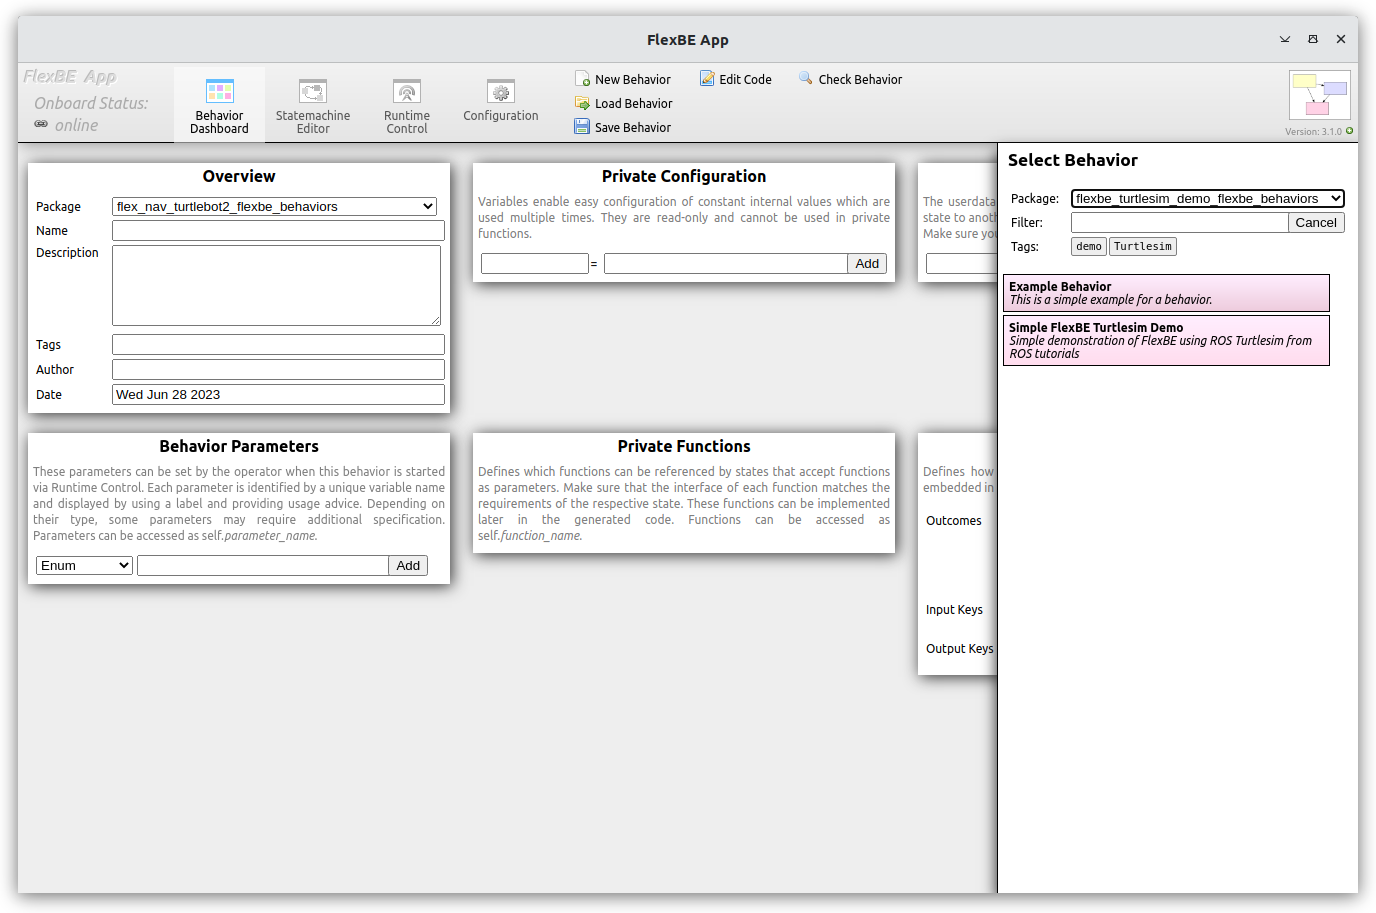
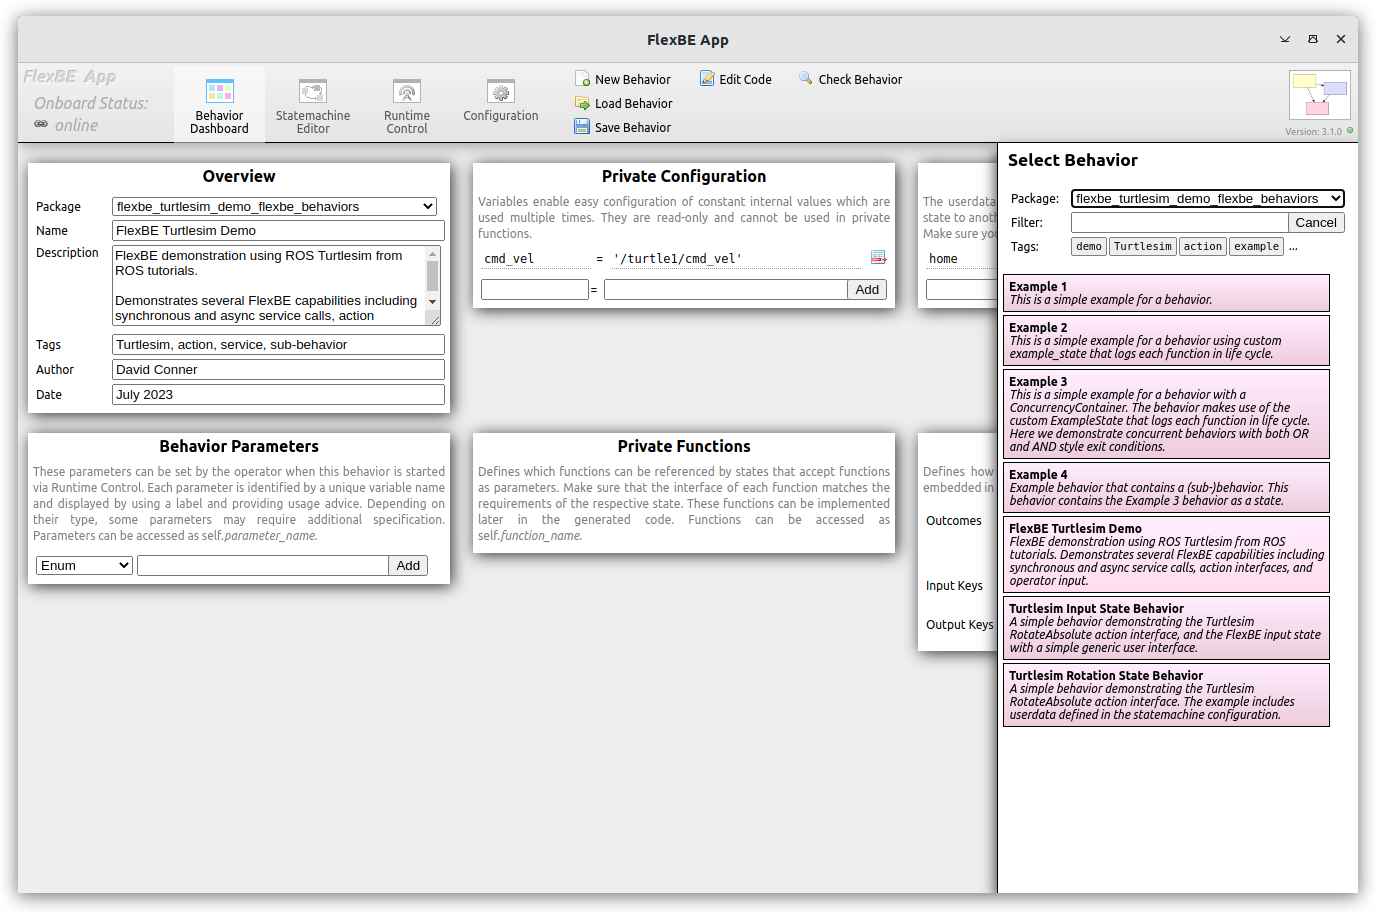
update images and readme

Changed region(s): [[0.0625, 0.2147, 0.9688, 0.7974], [0.875, 0.2453, 0.9375, 0.276]]

diff --git a/README.md b/README.md
@@ -9,7 +9,7 @@ This repo provides a self contained introduction to FlexBE with a
 The repo provides all of the flexbe_turtlesim_demo-specific states and behaviors to provide a simple demonstration of FlexBE's capabilities using a minimal number of the ROS  packages.
 
 In addition to the Turtlesim demonstration, the repo includes several
-detailed Example states and behaviors to illustrate the use and capabilities of FlexBE.
+detailed [Example](docs/examples.md) states and behaviors to illustrate the use and capabilities of FlexBE.
 
 ----
 
@@ -17,12 +17,12 @@ detailed Example states and behaviors to illustrate the use and capabilities of 
 
 In addition to the standard FlexBE [flexbe_app](https://github.com/flexbe/flexbe_app) and
 [flexbe_behavior_engine](https://github.com/flexbe/flexbe_behavior_engine) packages,
-clone the following repo into your ROS workspace:
+clone this repo into your ROS workspace:
 
 `git clone https://github.com/flexbe/flexbe_turtlesim_demo.git`
 
 Make sure that the branches are consistent (e.g. `git checkout ros2-devel`)
-with the corresponding systems.
+with the FlexBE App and Behavior Engine installations.
 
 Install any required dependencies.
 
@@ -34,7 +34,7 @@ Build your workspace:
 
   `colcon build`
 
-After sourcing the new setup as normally required, you must download the required `nwjs` binaries
+If building the FlexBE App from source, you must download and install the required `nwjs` binaries
 *before* you can run the FlexBE App:
 
 `ros2 run flexbe_app nwjs_install`
@@ -62,7 +62,7 @@ Launch TurtleSim:
 
 `ros2 run  turtlesim turtlesim_node`
 
-> Note: Unlike regular simulations such as `Gazebo`, `TurtleSim` does NOT
+> Note: Unlike simulators such as `Gazebo`, `TurtleSim` does NOT
 > publish a `\clock` topic to ROS.  Therefore, do NOT set `use_sim_time:=True` with these demonstrations!
 > Without a `clock`, nothing gets published and so the system will appear hung; therefore TurtleSim should
 > use the real wallclock time.
@@ -71,7 +71,7 @@ Start theFlexBE *Onboard* system using
 
 `ros2 launch flexbe_onboard behavior_onboard.launch.py use_sim_time:=False`
 
-Start a demonstration beahavior in fully autonomous mode
+Start a demonstration behavior in fully autonomous mode
 
 `ros2 run flexbe_widget be_launcher -b "FlexBE Turtlesim Demo" --ros-args --remap name:="behavior_launcher" -p use_sim_time:=False`
 
@@ -91,28 +91,29 @@ Start a demonstration beahavior in fully autonomous mode
 ### FlexBE Collaborative Autonomy Demonstration
 
 
-Ensure that a `turtlesim` window is open, and if not
+Ensure that a `turtlesim` node is running and graphic window is open; if not
 
 `ros2 run  turtlesim turtlesim_node`.
 
 There are 3 approaches to launching the full FlexBE suite for operator supervised autonomy-base control.
-Use one (and only one of the approaches):
+Use one (and only one) of the following approaches:
 
 1) FlexBE Quickstart
 
 `ros2 launch flexbe_app flexbe_full.launch.py use_sim_time:=False`
 
-  This starts all of FlexBE including both the *OCS* and *Onboard* software.
+  This starts all of FlexBE including both the *OCS* and *Onboard* software in one terminal.
 
 2) Launch the *OCS* and *Onboard* separately:
 
-`ros2 launch flexbe_app flexbe_ocs.launch.py use_sim_time:=False`
-
 `ros2 launch flexbe_onboard behavior_onboard.launch.py use_sim_time:=False`
+
+`ros2 launch flexbe_app flexbe_ocs.launch.py use_sim_time:=False`
 
   This allows running the *Onboard* software *on board* the robot, and the *OCS* software on a separate machine to allow remote supervision.
 
 3) Launch each FlexBE component in separate terminals:
+
   * *Onboard*
 
 `ros2 launch flexbe_onboard behavior_onboard.launch.py use_sim_time:=False`
@@ -126,38 +127,46 @@ Use one (and only one of the approaches):
 
 `ros2 run flexbe_widget be_launcher --ros-args --remap name:="behavior_launcher" -p use_sim_time:=False`
 
-`ros2 run flexbe_input input_action_server`
+`ros2 run flexbe_input input_action_server` - optional only required if using input behaviors described below
 
 The *OCS* components can be run on a separate computer from the *onboard* components.
 
 #### Controlling Behaviors Via FlexBE User Interface (UI)
 
 Using the FlexBE UI application *Behavior Dashboard*, select *Load Behavior* from the upper middle tool bar, and
-select the `flexbe_turtlesim_demo_flexbe_behaviors` package from dropdown, and the `FlexBE Turtlesim Demo`.
+select the `flexbe_turtlesim_demo_flexbe_behaviors` package from the dropdown menu and the `FlexBE Turtlesim Demo`.
 
-<img src="img/loading_behavior.png" alt="Loading behavior via FlexBE UI Dashboard" width="350">
-<img src="img/editor_view.png" alt="State machine editor view" width="350">
+<img src="img/loading_behavior.png" alt="Loading behavior via FlexBE UI Dashboard" width="330">
+<img src="img/behavior_dashboard.png" alt="Behavior dashboard view" width="330">
+<img src="img/editor_view.png" alt="State machine editor view" width="330">
+
+Once loaded, the behavior dashboard (middle image) is used to configure variables and inputs to the behavior as a whole.
+In this example we specify the topic for the turtle command velocity and the location of the "home" position for our turtle.
+
+> Note: Here we use the term "behavior" to mean the state machine that induces a desired system behavior. We will use the term "state" 
+> to refer to a particular parameterized instance of a python class that defines the "state implementation".
 
 The *Statemachine Editor* tab is used to inspect or edit existing behaviors, or build new ones.  
-The `FlexBE Turtlesim Demo` behavior is shown above.
+The `FlexBE Turtlesim Demo` behavior is shown above in the rightmost images.  
+FlexBE supports Hierarchical Finite State Machines (HFSM) so that the "EightMove" state is actually a "container" for
+ a simple state machine that executes the figure 8 pattern using the provided FlexBE state implementations.
 
-The `flexbe_turtlesim_demo_flexbe_states` package includes custom state examples for:
+The `flexbe_turtlesim_demo_flexbe_states` package in this repository includes custom state implementations for:
 
-  * `clear_turtlesim_state` - clear the turtlesim window using a *blocking* service call
-  * `rotate_turtle_state` - Rotate turtle to user input angle
-  * `teleport_absolute_state` - go to designated position using a *non-blocking* service call
-  * `timed_cmd_vel_state` - publish command velocity using a specified desired update rate
+  * [`clear_turtlesim_state`](flexbe_turtlesim_demo_flexbe_states/flexbe_turtlesim_demo_flexbe_states/clear_turtlesim_state.py) - clear the turtlesim window using a *blocking* service call
+  * [`rotate_turtle_state`](flexbe_turtlesim_demo_flexbe_states/flexbe_turtlesim_demo_flexbe_states/rotate_turtle_state.py) - Rotate turtle to user input angle
+  * [`teleport_absolute_state`](flexbe_turtlesim_demo_flexbe_states/flexbe_turtlesim_demo_flexbe_states/teleport_absolute_state.py) - go to designated position using a *non-blocking* service call
+  * [`timed_cmd_vel_state`](flexbe_turtlesim_demo_flexbe_states/flexbe_turtlesim_demo_flexbe_states/timed_cmd_vel_state.py) - publish command velocity using a specified desired update rate
 
     > NOTE: The desired state update rate is only best effort.  FlexBE is NOT a real time controller, and
     > is generally suited for lower rate (10s to 100s of Hz) periodic monitoring that does not require precise timing.
 
-FlexBE supports Hierarchical Finite State Machines (HFSM) so that the "TO_DO_FIX_NAME" state is actually a (simple) state machine that executes the figure 8 pattern using the provided FlexBE state implementations
-such as the [Timed Cmd Velocity State](flexbe_turtlesim_demo_flexbe_states/flexbe_turtlesim_demo_flexbe_states/timed_cmd_vel_state.py)
-which publishes a fixed command velocity as a [Twist](https://docs.ros2.org/latest/api/geometry_msgs/msg/TwistStamped.html) (forward speed and turning rate) for a given time duration.  The specific parameters are set in the FlexBE Editor by clicking on a particular state; the "Left Turn" state values are shown below.
+For example, the [`timed_cmd_vel_state`](flexbe_turtlesim_demo_flexbe_states/flexbe_turtlesim_demo_flexbe_states/timed_cmd_vel_state.py) 
+implements the `TimeCmdVelState` that publishes a fixed command velocity as a [Twist](https://docs.ros2.org/latest/api/geometry_msgs/msg/TwistStamped.html) (forward speed and turning rate) for a given time duration.  The `FlexBE Turtlesim Demo` behavior includes the `EightMove` sub-state machine container.  Opening that container - either by double clicking on container or single clicking and requesting to open the container - shows five state instances of the `TimedCmdVelState`.  The specific parameters values are set in the FlexBE Editor by clicking on a particular state; the "EightMove" state machine with specific "LeftTurn" state values are shown below.
 
-  <img src="img/timed_cmd_vel.png" alt="State parameters." width="250">
+<img src="img/timed_cmd_vel.png" alt="LeftTurn state parameters within the 'EightMove' state machine container." width="450">
 
-The other containers are described in links below.
+The other types of containers are described in the detailed examples. 
 
 ----
 
@@ -181,25 +190,22 @@ runtime control.
 Clicking on the transition names above will take you to a page detailing that particular sub-behavior.
 
 FlexBE supports variable autonomy levels, so choosing "Full" autonomy allows the system to automatically choose to
-repeat the "Eight" transition.
+repeat the "Eight" transition.  As shown below, the other transitions in the `OperatorDecisionState` are configured to require 
+"Full" autonomy, but "Eight" only requires "High" autonomy; 
+in "Full" autonomy mode this transition is selected automatically. 
+This was the mode first demonstrated above without the OCS.
 
+<img src="img/operator_decision_state.png" alt="Configuring the operator decision state." width="500">
 <img src="img/full_autonomy_loops.png" alt="Autonomous behavior in Full autonomy." width="500">
 
-This is based on the settings in the *Operator Decision State*.  By allowing a transition to "Eight" with only "High" autonomy,
-setting the executive to "Full" autonomy allows the automatic transition.
+Read the descriptions linked to each transition and practice executing the different behaviors above.
 
-<img src="img/decision_state_settings.png" alt="Settings for operator decision state." width="350">
-<img src="img/hfsm_container_sub_sm.png" alt="HFSM sub state machine." width="350">
+Review the detailed [Examples](docs/examples.md) for a more in depth discussion of the theory and implementation of FlexBE.
 
-
-----
 ----
 
 TODO write ups:
 
- * Discuss FlexBE data flow in context of Turtlesim demo
- * Discuss state implementation details
- * Discuss generated SM code
  * Discussed advanced operations such as "Attaching" to a running behavior.
  * FAQ and debugging help.
 
